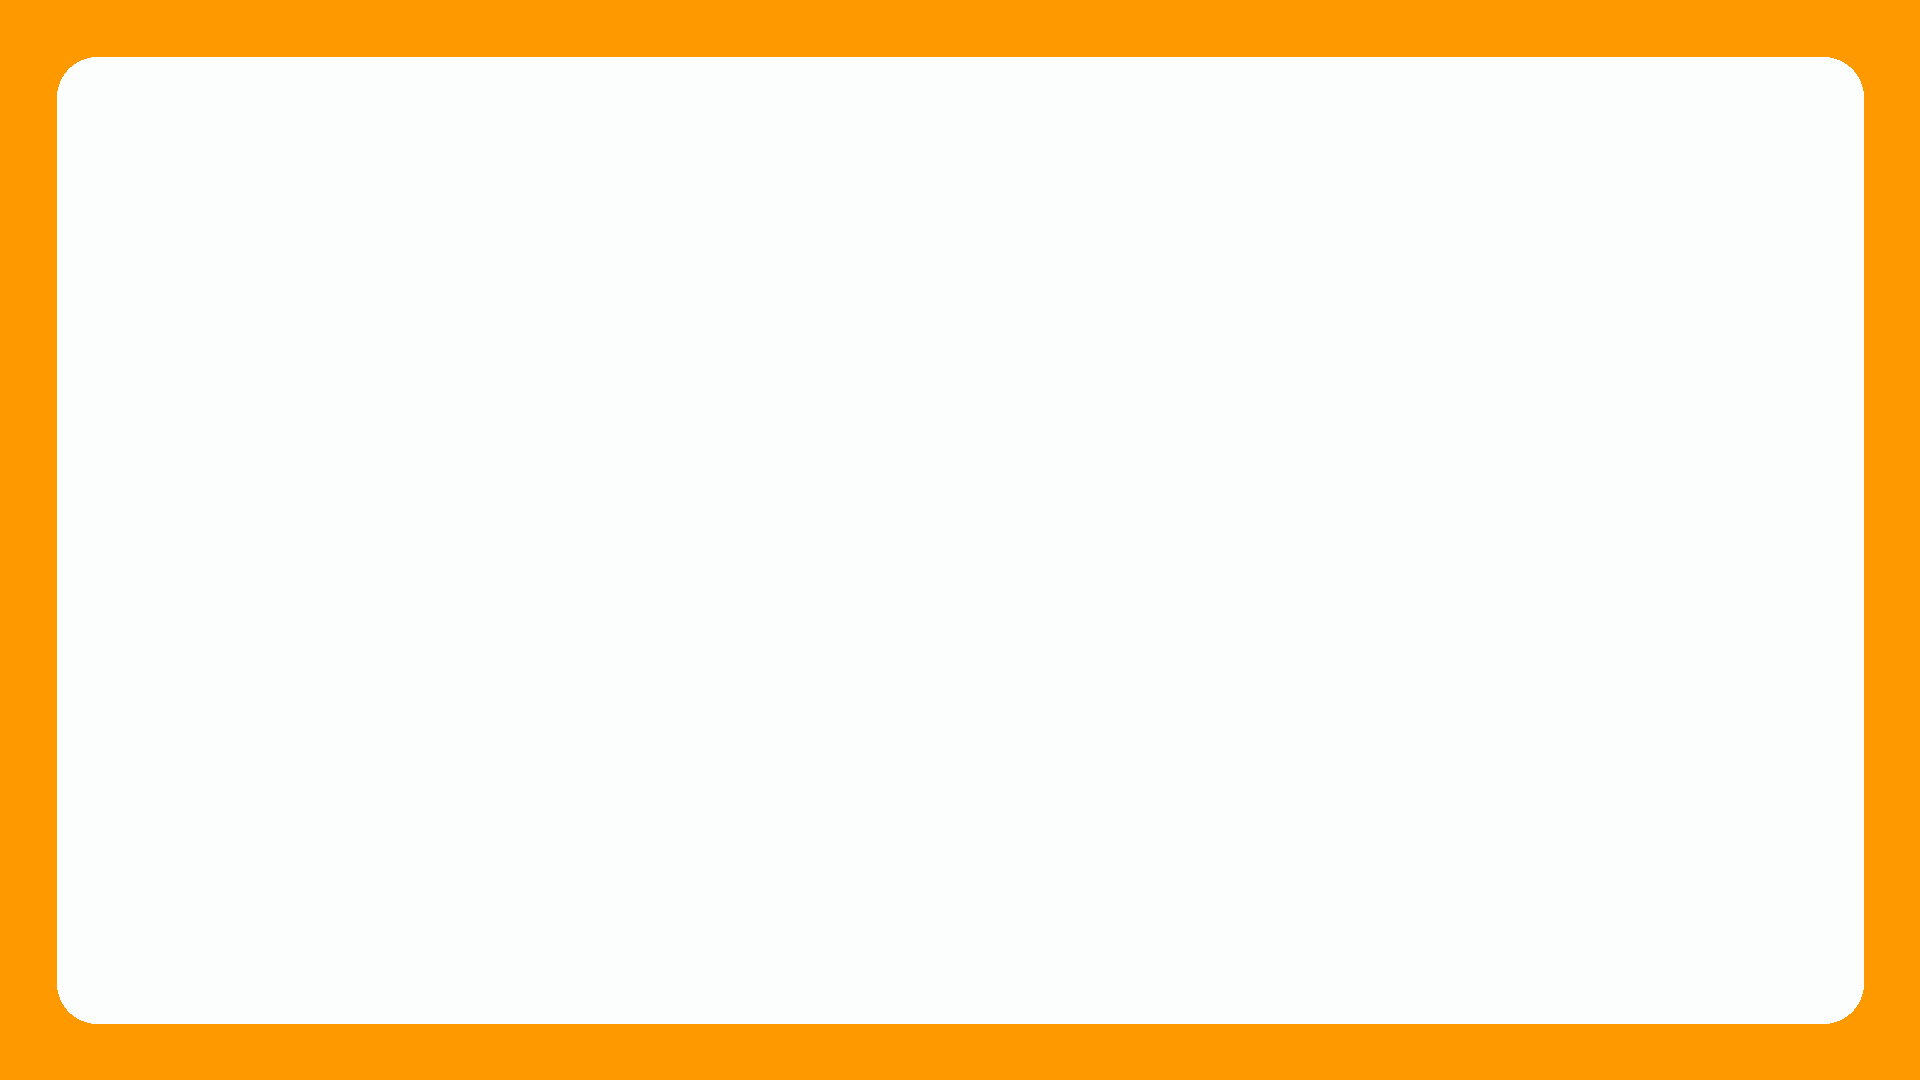
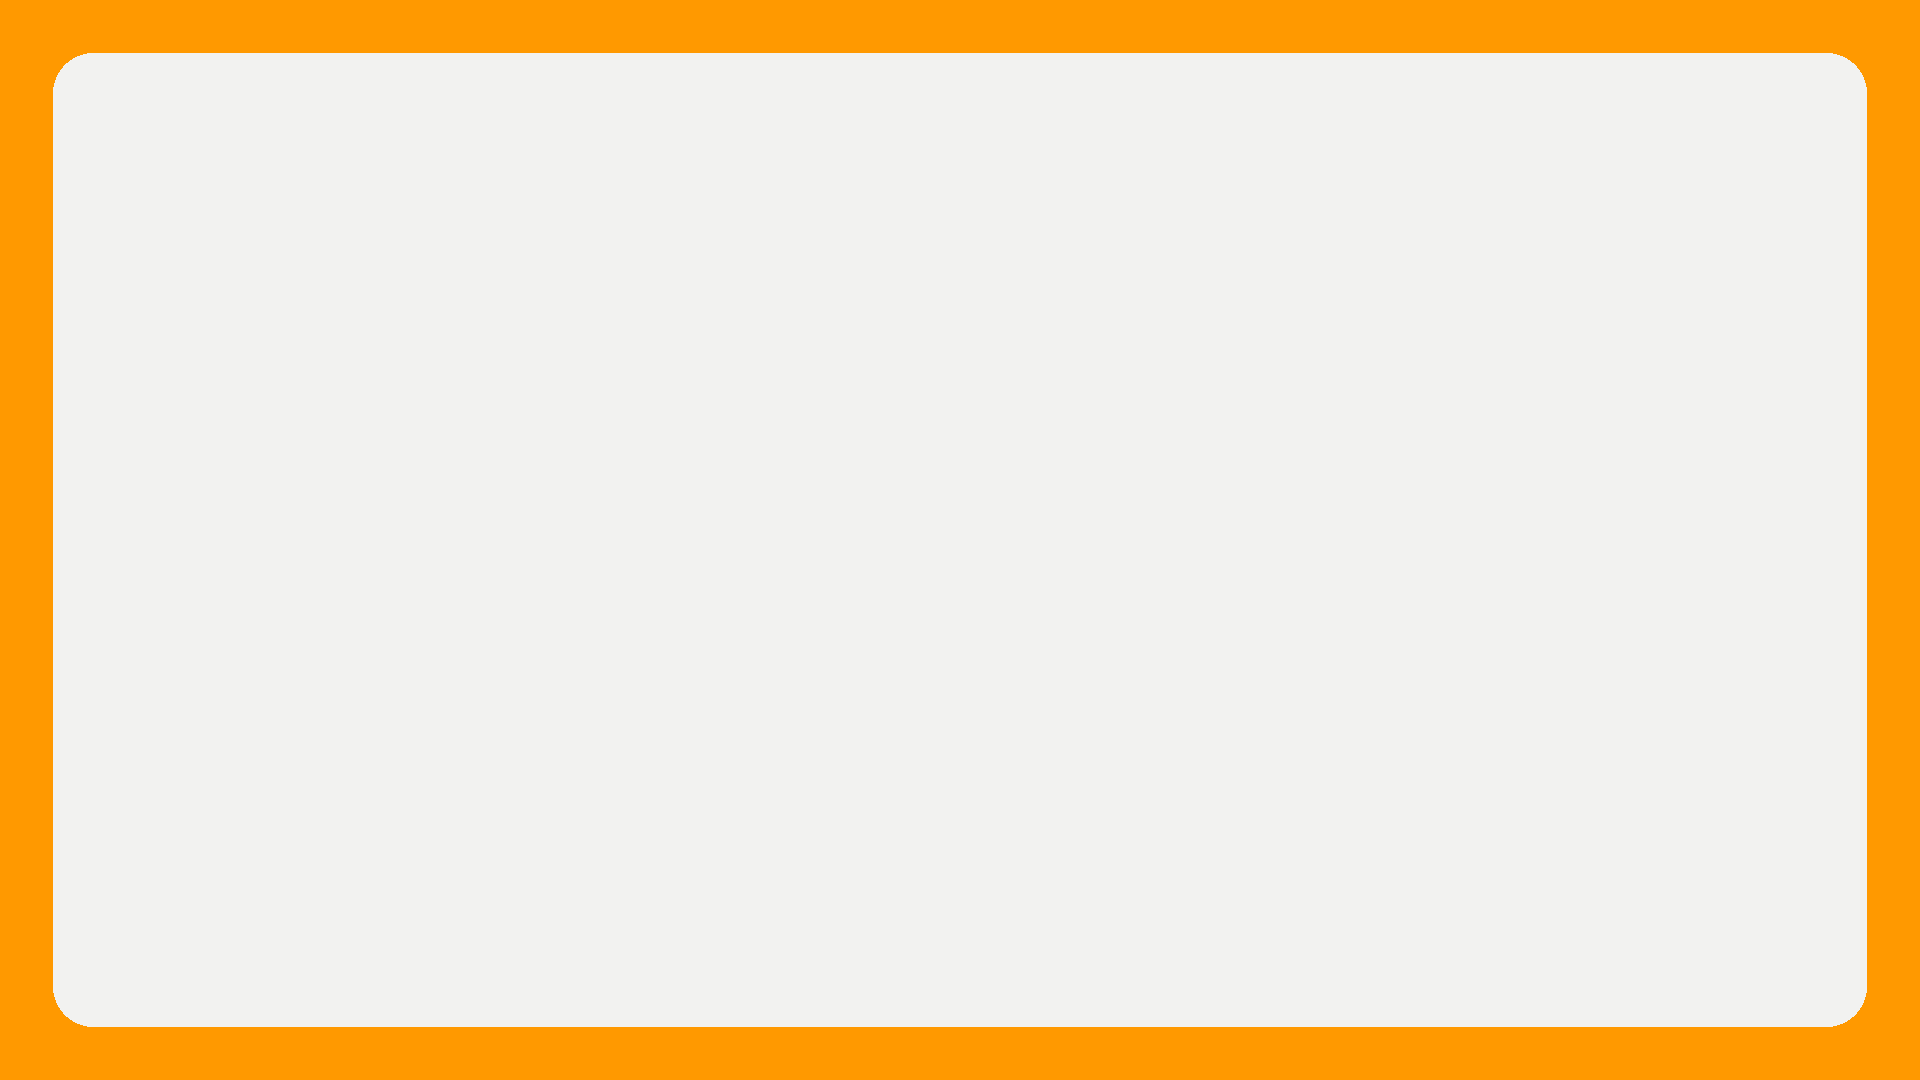
color adapted

Changed region(s): [[0.0312, 0.0306, 0.9688, 0.0611]]

diff --git a/video_generator.py b/video_generator.py
@@ -26,17 +26,20 @@ TIMES_TAG = 0
 
 def generate_background_image(width=GLOBAL_WIDTH, height=GLOBAL_HEIGHT, color=MAIN_BG_COLOR, time_tag=TIMES_TAG):
     # 创建一个新的图像
-    image = Image.new("RGB", (width, height), color)  # 橘色背景
+    image = Image.new("RGB", (width, height), color)
     draw = ImageDraw.Draw(image)
     # 计算边框宽度(1%的宽度)
-    border_width = GAP * 1.5
+    border_width = GAP * 1.4
     # 绘制圆角矩形(内部灰白色)
     draw.rounded_rectangle(
         [(border_width, border_width), (width - border_width, height - border_width)],
         radius=40,  # 圆角半径
-        fill=build_bg_color_hex(time_tag)
+        fill=build_bg_color_rgb(time_tag)
     )
     image.save(BACKGROUND_IMAGE_PATH)
+
+    image_inner = Image.new("RGB", (INNER_WIDTH, INNER_HEIGHT), color=build_bg_color_rgb(time_tag))
+    image_inner.save(BACKGROUND_IMAGE_INNER_PATH)
     return image
 
 
@@ -97,7 +100,7 @@ def generate_single_video(audio_path, image_list, title, summary, output_path, i
                           times_tag=TIMES_TAG):
     title = "" + index + " " + title
     # 加载背景和音频
-    bg_clip = ColorClip(size=(INNER_WIDTH, INNER_HEIGHT), color=build_bg_color_rgb(times_tag))  # 白色背景
+    bg_clip = ImageClip(BACKGROUND_IMAGE_INNER_PATH)  # 白色背景
     try:
         audio_clip = AudioFileClip(audio_path)
     except IOError as e:
@@ -328,11 +331,7 @@ def combine_videos_with_transitions(video_paths, output_path):
     duration_list = []
     for i, video_path in enumerate(video_paths):
         # 加载视频
-        video = VideoFileClip(video_path)
-        if (video.duration < 2):
-            logger.warning(f"视频{video_path}时长不足2秒,跳过")
-            continue
-        video = video.with_position(('center', 'center'), relative=True)
+        video = VideoFileClip(video_path).with_position(('center', 'center'), relative=True)
         # 将视频放置在背景上
         video_with_bg = CompositeVideoClip([
             bg_clip,
@@ -552,6 +551,9 @@ def test_add_walking_man():
 def test_generate_video_end():
     generate_video_end(is_preview=True)
 
+
+def test_generate_background_image():
+    generate_background_image(time_tag=1)
 
 import argparse
 

diff --git a/utils.py b/utils.py
@@ -22,6 +22,7 @@ PROXY = {
 }
 
 BACKGROUND_IMAGE_PATH = "videos/generated_background.png"
+BACKGROUND_IMAGE_INNER_PATH = "videos/generated_background_inner.png"
 GLOBAL_WIDTH = 1920
 GLOBAL_HEIGHT = 1080
 GAP = int(GLOBAL_WIDTH * 0.02)
@@ -141,11 +142,15 @@ def build_bg_color_hex(times_tag: int = 0):
         2: '#F2F2F0',
         3: '#F2F2F0'
     }
-    return announcer_map[times_tag]
+    hex = announcer_map[times_tag]
+    logger.info(f"build_bg_color_hex: {hex}")
+    return hex
 
 
 def build_bg_color_rgb(times_tag: int = 0):
-    return hex_to_rgb(build_bg_color_hex(times_tag))
+    rgb = hex_to_rgb(build_bg_color_hex(times_tag))
+    logger.info(f"build_bg_color_rgb: {rgb}")
+    return rgb
 
 
 def build_final_video_path(today=datetime.now().strftime("%Y%m%d"), times_tag: int = 0):
